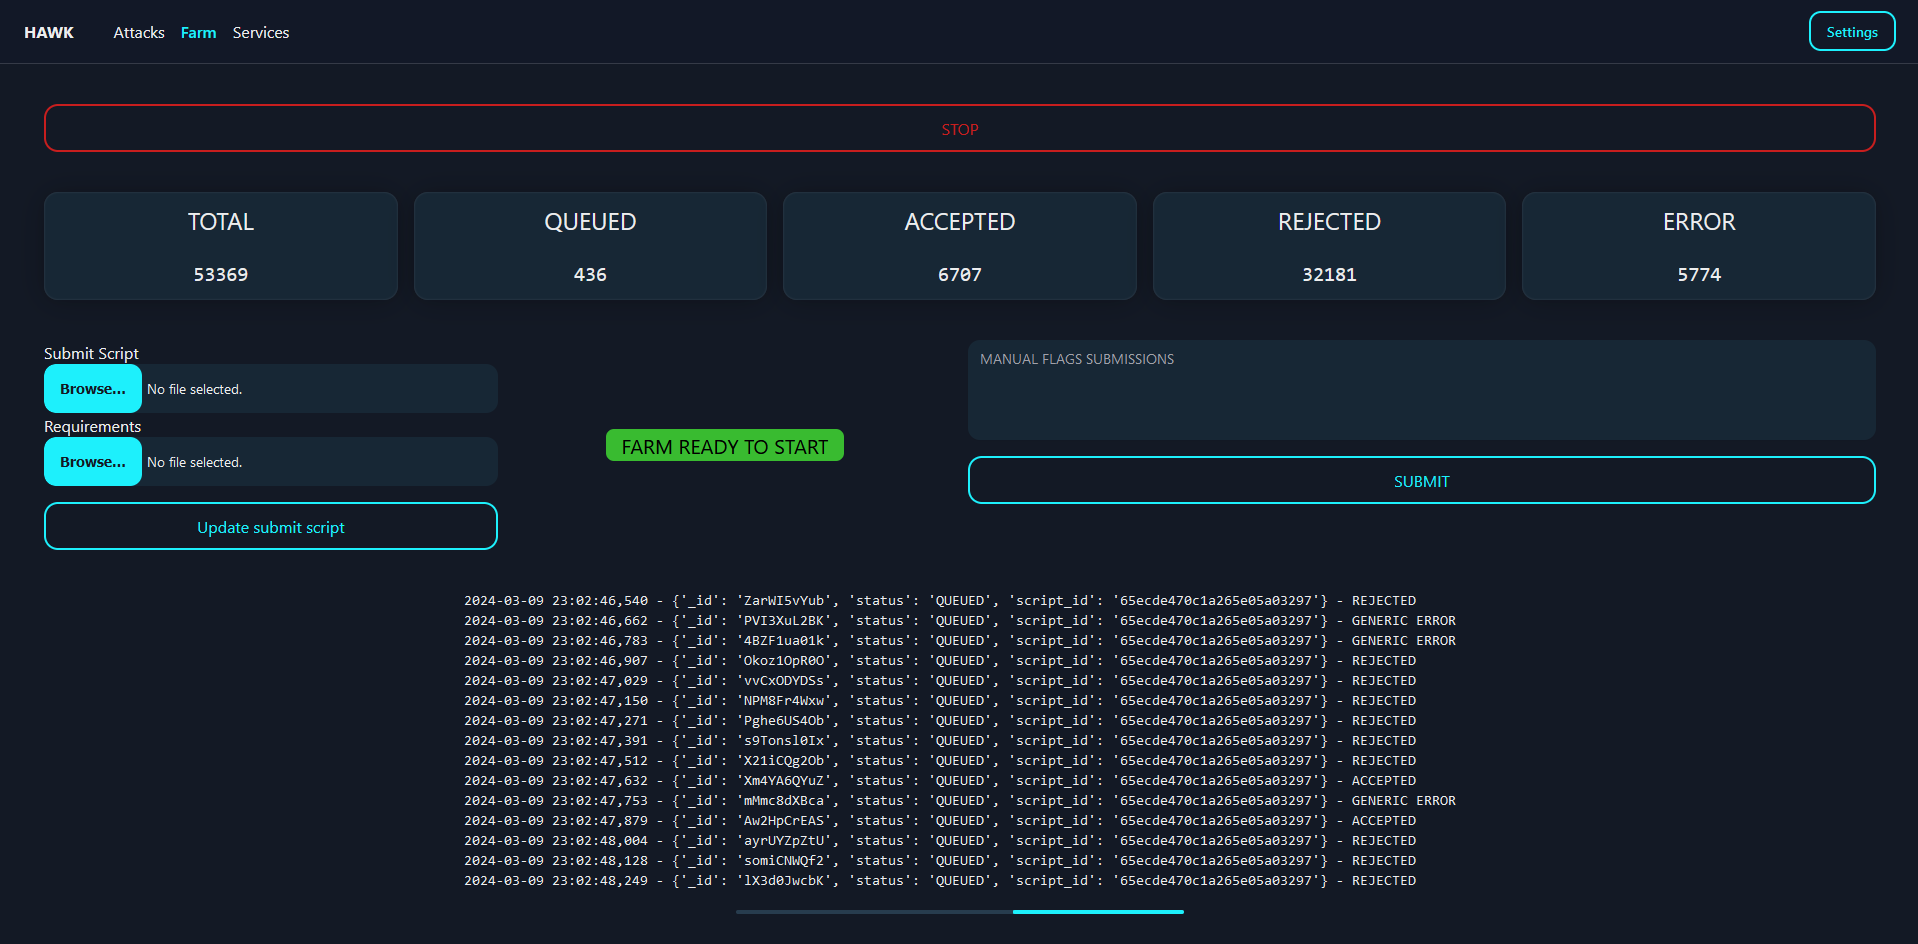
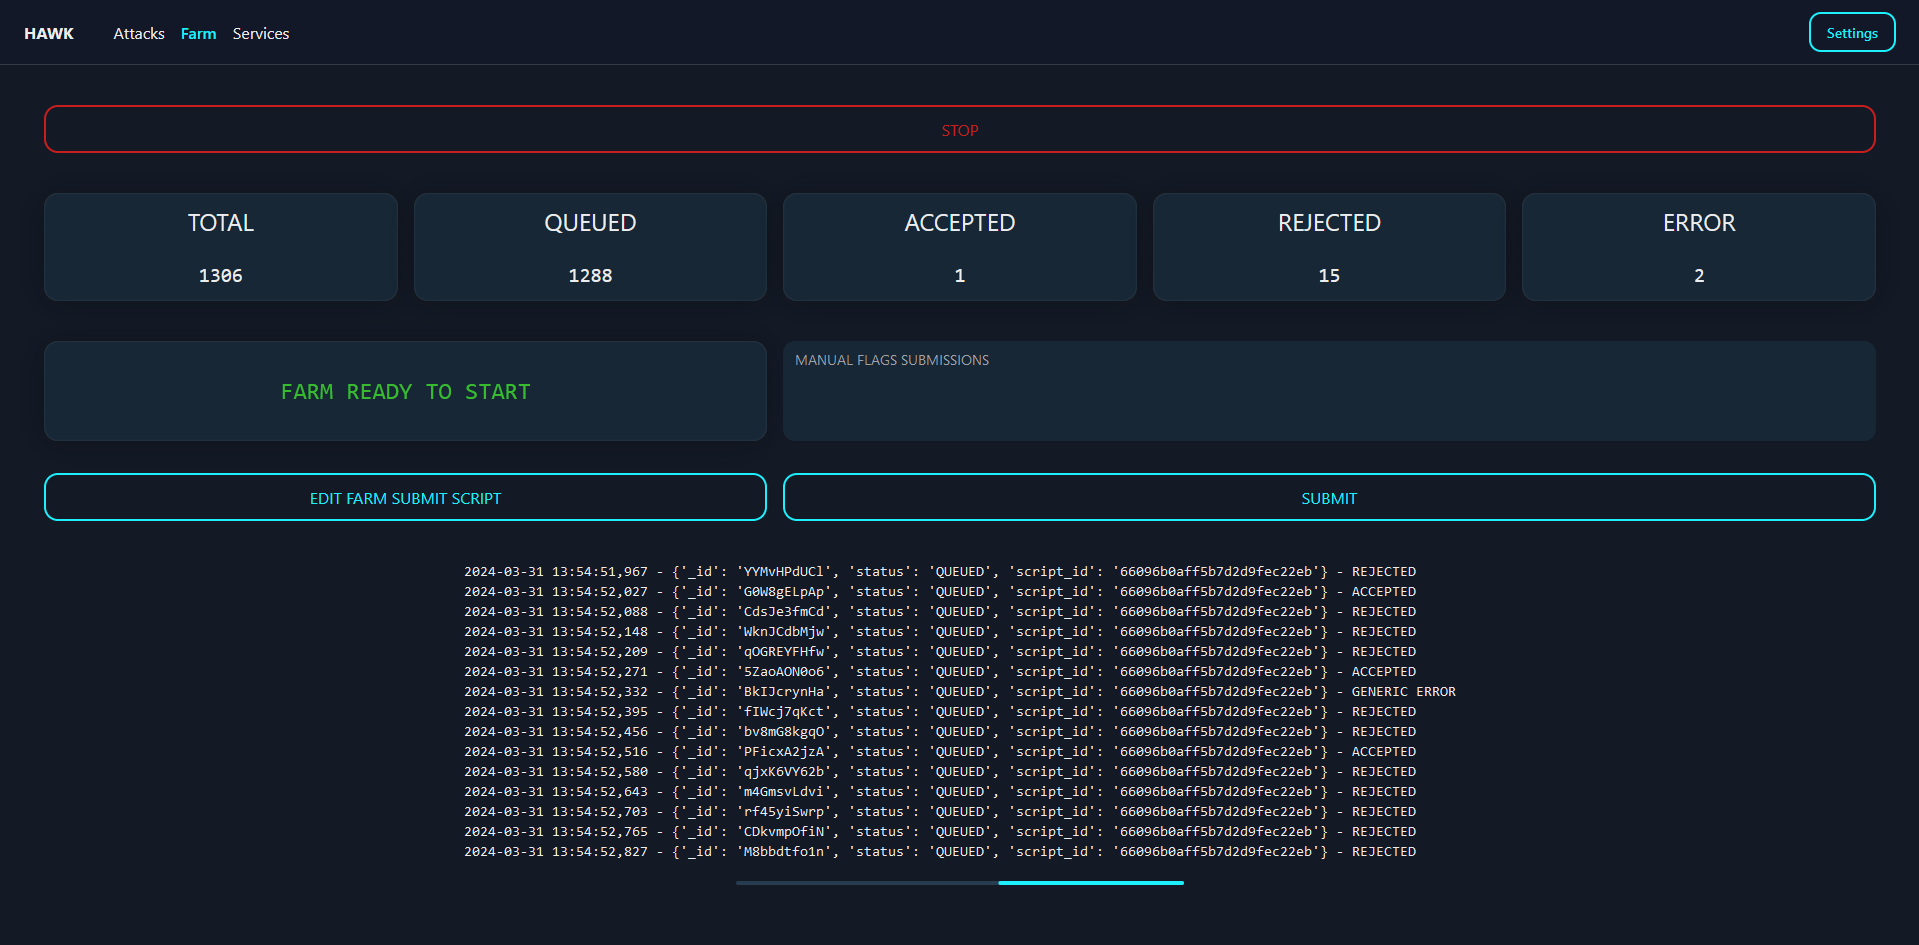
Update farm GUI

diff --git a/frontend/src/pages/Farm.jsx b/frontend/src/pages/Farm.jsx
@@ -1,6 +1,7 @@
 import React, { useState, useEffect } from 'react';
 import { useDataContext } from '../context/Data';
-import { Card, CardHeader, CardBody, Button, Textarea, Chip, Progress } from "@nextui-org/react";
+import { useDisclosure, Card, CardHeader, CardBody, Button, Textarea, Chip, Progress } from "@nextui-org/react";
+import { Modal, ModalContent, ModalHeader, ModalBody, ModalFooter, Input } from "@nextui-org/react";
 import config from "../config";
 import { toast } from 'react-toastify';
 import SingleFileUploader from "./components/FileUploader";
@@ -23,6 +24,7 @@ export default function Farm() {
   const [requirementsFile, setRequirementsFile] = useState();
   const [farmLogs, setFarmLogs] = useState();
   const [fetchLogsIntervalId, setFetchLogsIntervalId] = useState(null);
+  const { isOpen: isOpenFarmScript, onOpen: onOpenFarmScript, onOpenChange: onOpenChangeFarmScript, onClose: onCloseFarmScript } = useDisclosure();
 
   const handleAddSubmitScript = async () => {
     try {
@@ -48,6 +50,7 @@ export default function Farm() {
       if (response.ok && responseData.status === "OK") {
         toast.success(responseData.message);
         fetchSubmitScript();
+        onCloseFarmScript();
       } else {
         toast.error(responseData.message || "Failed to update submit script.");
       }
@@ -229,89 +232,120 @@ export default function Farm() {
         <FarmCard title="rejected" dataKey="rejected" flagsData={flagsData} />
         <FarmCard title="error" dataKey="error" flagsData={flagsData} />
       </div>
-      <div className="grid grid-cols-2 gap-4 px-10 m-1 mt-10">
-        <div className="grid grid-cols-2">
-          <div>
-            <SingleFileUploader
-              title={"Submit Script"}
-              onFileChange={(item) => {
-                setScriptFile(item);
-              }}
-            />
-            <SingleFileUploader
-              title={"Requirements"}
-              onFileChange={(item) => {
-                setRequirementsFile(item);
-              }}
-            />
-            <Button
-              className="mt-4"
-              fullWidth
-              size="lg"
-              color="primary"
-              variant="ghost"
-              onClick={handleAddSubmitScript}>
-              Update submit script
-            </Button>
+      <div className="grid grid-cols-5 gap-4 px-10 m-1 mt-10 flex">
+        <div className='col-start-1 col-end-3 flex flex-col space-y-4'>
+          {submitScriptData && submitScriptData["status"] === "OK" ? (
+            <Card className='h-full'>
+              <CardBody className="flex items-center justify-center h-full">
+                <p className="font-mono text-2xl text-success">FARM READY TO START</p>
+              </CardBody>
+            </Card>
+          ) : submitScriptData && submitScriptData["status"] === "ERROR" ? (
+            <Card className='h-full'>
+              <CardBody className="flex items-center justify-center h-full">
+                <p className="font-mono text-2xl text-danger">NO SUBMIT SCRIPT FOUND</p>
+              </CardBody>
+            </Card>
+          ) : (
+            <></>
+          )}
+            <div className="mt-auto">
+              <Button
+                className="mt-4"
+                fullWidth
+                size="lg"
+                color="primary"
+                variant="ghost"
+                onPress={onOpenFarmScript}>
+                EDIT FARM SUBMIT SCRIPT
+              </Button>
+            </div>
           </div>
-          <div className="flex items-center justify-center">
-            {submitScriptData && submitScriptData["status"] === "OK" ? (
-              <Chip
+          <div className='col-start-3 col-end-6 flex flex-col space-y-4'>
+            <Textarea
+              label="MANUAL FLAGS SUBMISSIONS"
+              value={manualFlags}
+              onChange={(e) => setManualFlags(e.target.value)}
+            />
+            <div className="mt-auto">
+              <Button
+                className="mt-4"
+                fullWidth
                 size="lg"
-                variant="solid"
-                color="success"
-                radius="sm"
-                className="text-xl">
-                <p>FARM READY TO START</p>
-              </Chip>
-            ) : submitScriptData && submitScriptData["status"] === "ERROR" ? (
-              <Chip
-                size="lg"
-                variant="solid"
-                color="danger"
-                radius="sm"
-                className="text-xl">
-                <p>NO SUBMIT SCRIPT FOUND</p>
-              </Chip>
-            ) : (
-              <></>
-            )}
+                color="primary"
+                variant="ghost"
+                onClick={handleSubmit}>
+                SUBMIT
+              </Button>
+            </div>
           </div>
         </div>
-        <div>
-          <Textarea
-            label="MANUAL FLAGS SUBMISSIONS"
-            value={manualFlags}
-            onChange={(e) => setManualFlags(e.target.value)}
-          />
-          <Button
-            className="mt-4"
-            fullWidth
-            size="lg"
-            color="primary"
-            variant="ghost"
-            onClick={handleSubmit}>
-            SUBMIT
-          </Button>
-        </div>
+      <div>
+        {farmStatusData && farmStatusData["phase"] === "Running" && (
+          <div className="grid grid-cols-1 px-10 mt-10 ">
+            <div className="flex justify-center">
+              <pre aria-label="logs" className="font-mono text-sm">
+                {farmLogs}
+              </pre>
+            </div>
+            <div className="flex justify-center mt-5">
+              <Progress
+                aria-label="progress-bar"
+                size="sm"
+                isIndeterminate
+                className="max-w-md"
+              />
+            </div>
+          </div>
+        )}
       </div>
-      {farmStatusData && farmStatusData["phase"] === "Running" && (
-        <div className="grid grid-cols-1 px-10 mt-10 ">
-          <div className="flex justify-center">
-            <pre aria-label="logs" className="font-mono text-sm">
-              {farmLogs}
-            </pre>
-          </div>
-          <div className="flex justify-center mt-5">
-            <Progress
-              aria-label="progress-bar"
-              size="sm"
-              isIndeterminate
-              className="max-w-md"
-            />
-          </div>
-        </div>
-      )}
+
+      <Modal
+          isOpen={isOpenFarmScript}
+          onOpenChange={onOpenChangeFarmScript}
+          className="dark text-foreground bg-background"
+          backdrop="blur"
+          hideCloseButton>
+          <ModalContent>
+            {(onCloseFarmScript) => (
+              <>
+                <ModalHeader>Edit farm submit script</ModalHeader>
+                <ModalBody>
+                <div className=''>
+                  <div>
+                  <SingleFileUploader
+                    title={"Submit Script"}
+                    onFileChange={(item) => {
+                      setScriptFile(item);
+                    }}
+                  />
+                  <SingleFileUploader
+                    title={"Requirements"}
+                    onFileChange={(item) => {
+                      setRequirementsFile(item);
+                    }}
+                  />
+                  </div>
+                </div>
+                </ModalBody>
+                <ModalFooter>
+                  <Button
+                    color="danger"
+                    variant="light"
+                    className="mt-4"
+                    onPress={onCloseFarmScript}>Cancel</Button>
+                  <Button
+                      className="mt-4"
+                      fullWidth
+                      color="primary"
+                      onClick={handleAddSubmitScript}>
+                      Update submit script
+                    </Button>
+                </ModalFooter>
+              </>
+            )}
+          </ModalContent>
+        </Modal>
     </>
   );
 }

diff --git a/backend/kube.py b/backend/kube.py
@@ -7,7 +7,7 @@ import env
 import logging
 from flask import jsonify
 
-logging.basicConfig(format='%(asctime)s - %(levelname)s - %(funcName)s - %(message)s', level=logging.DEBUG)
+logging.basicConfig(format='%(asctime)s - %(levelname)s - %(funcName)s - %(message)s', level=logging.INFO)
 
 def create_new_attack(namespace, script_id):
     try:
